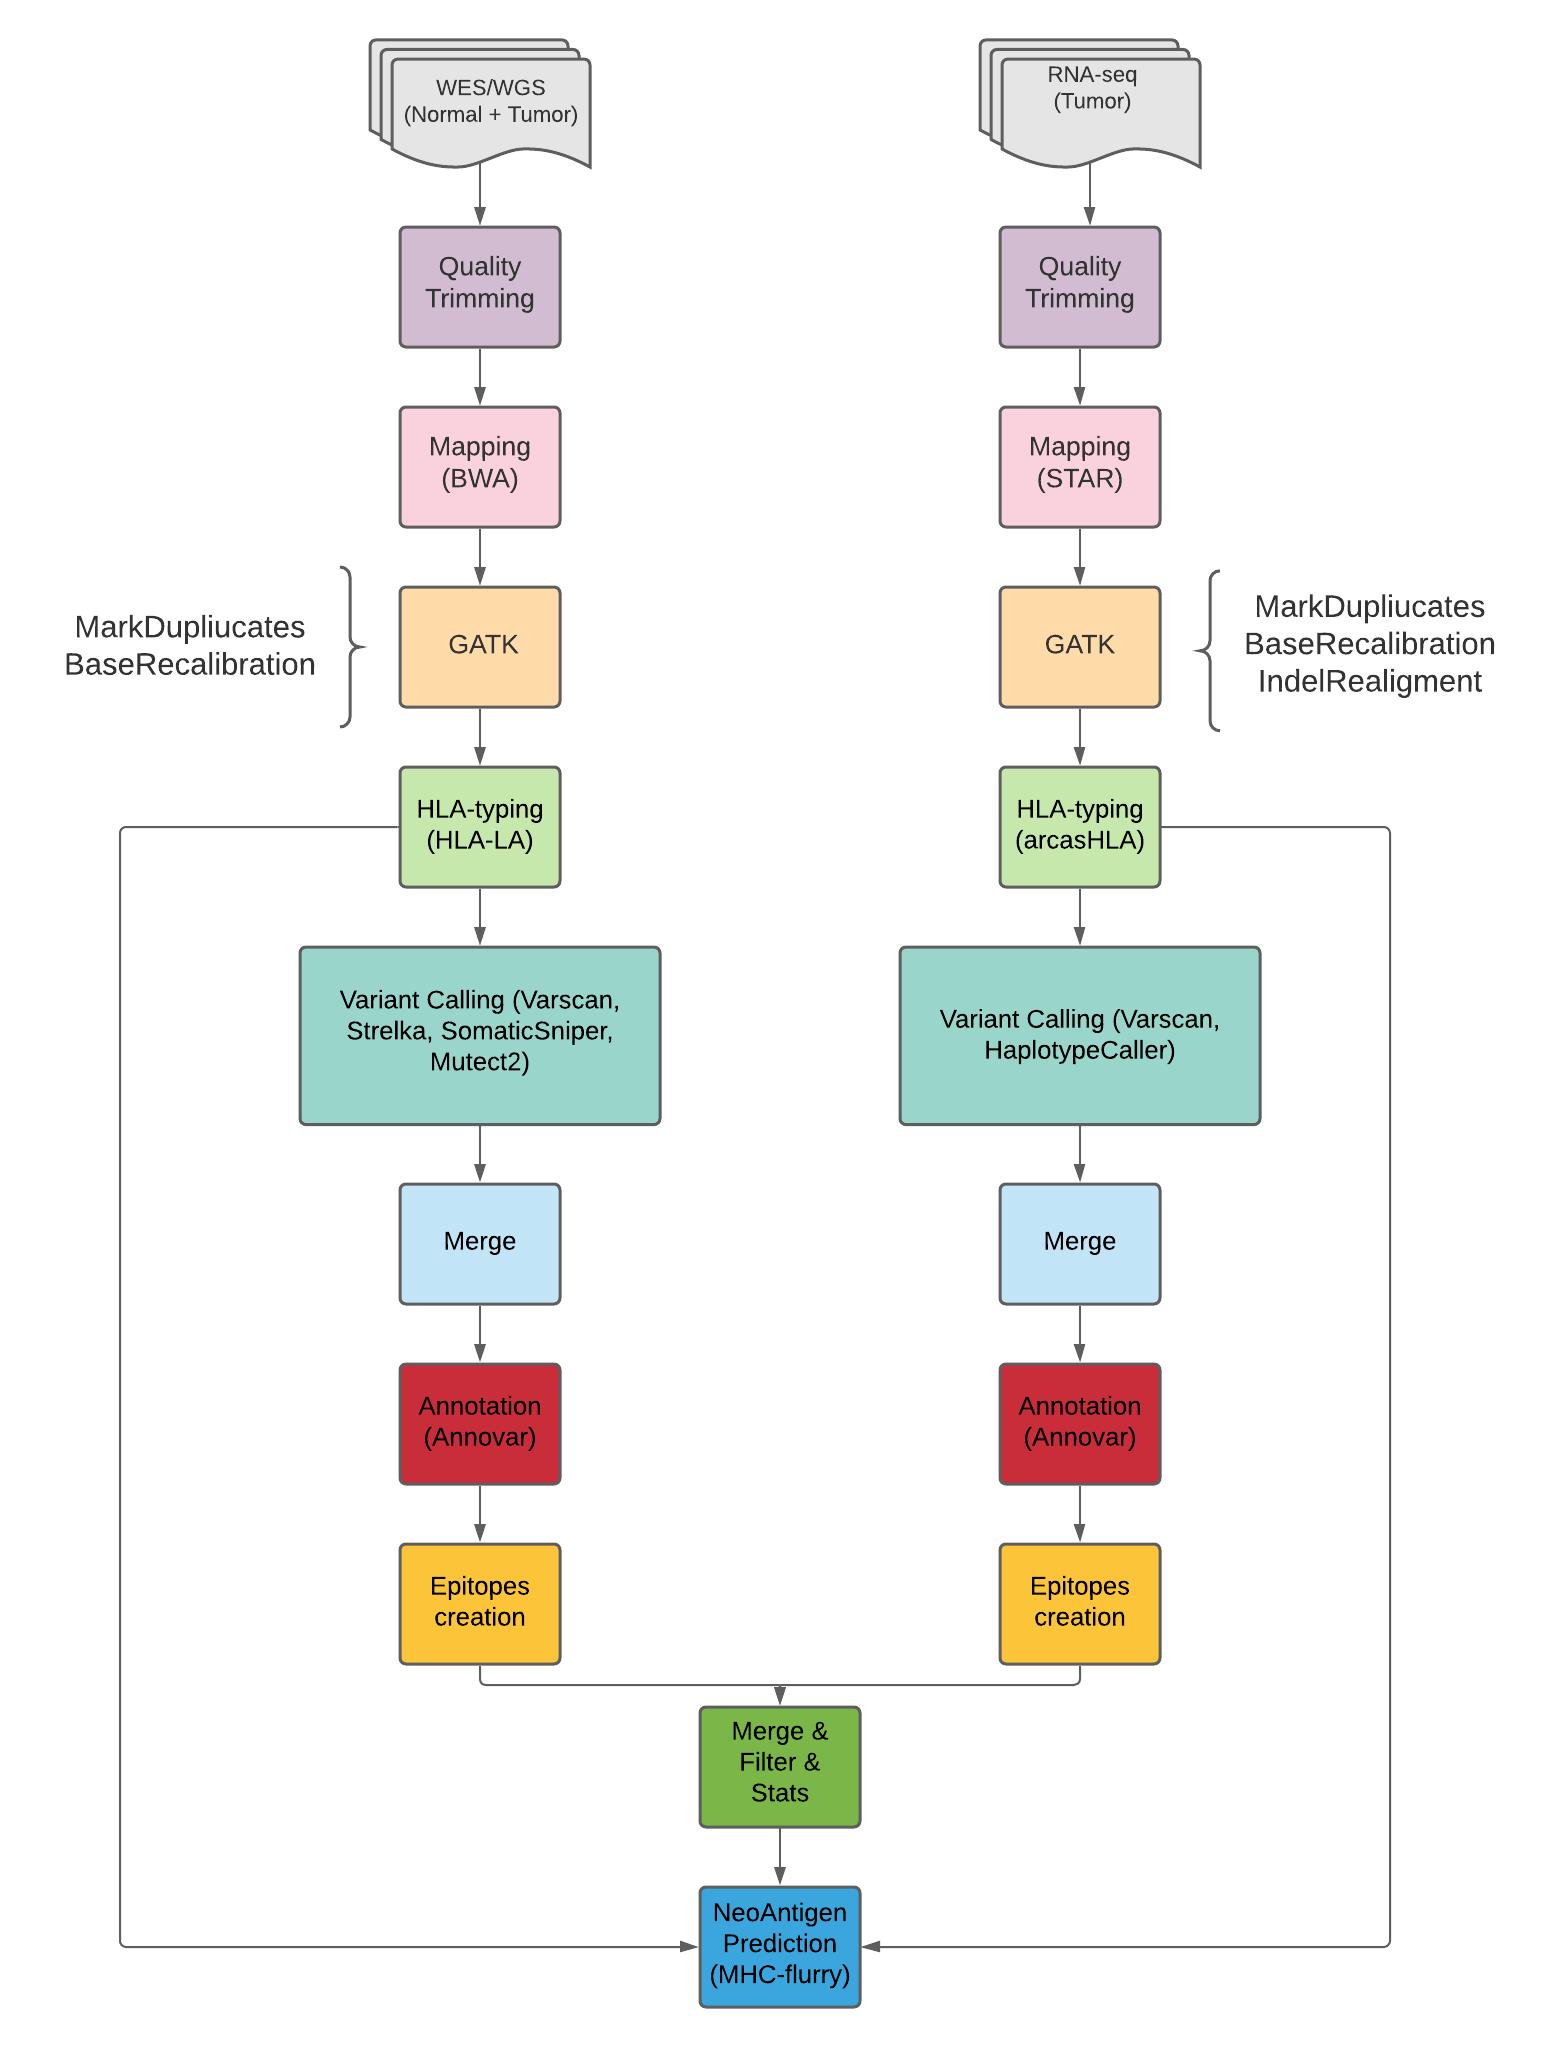
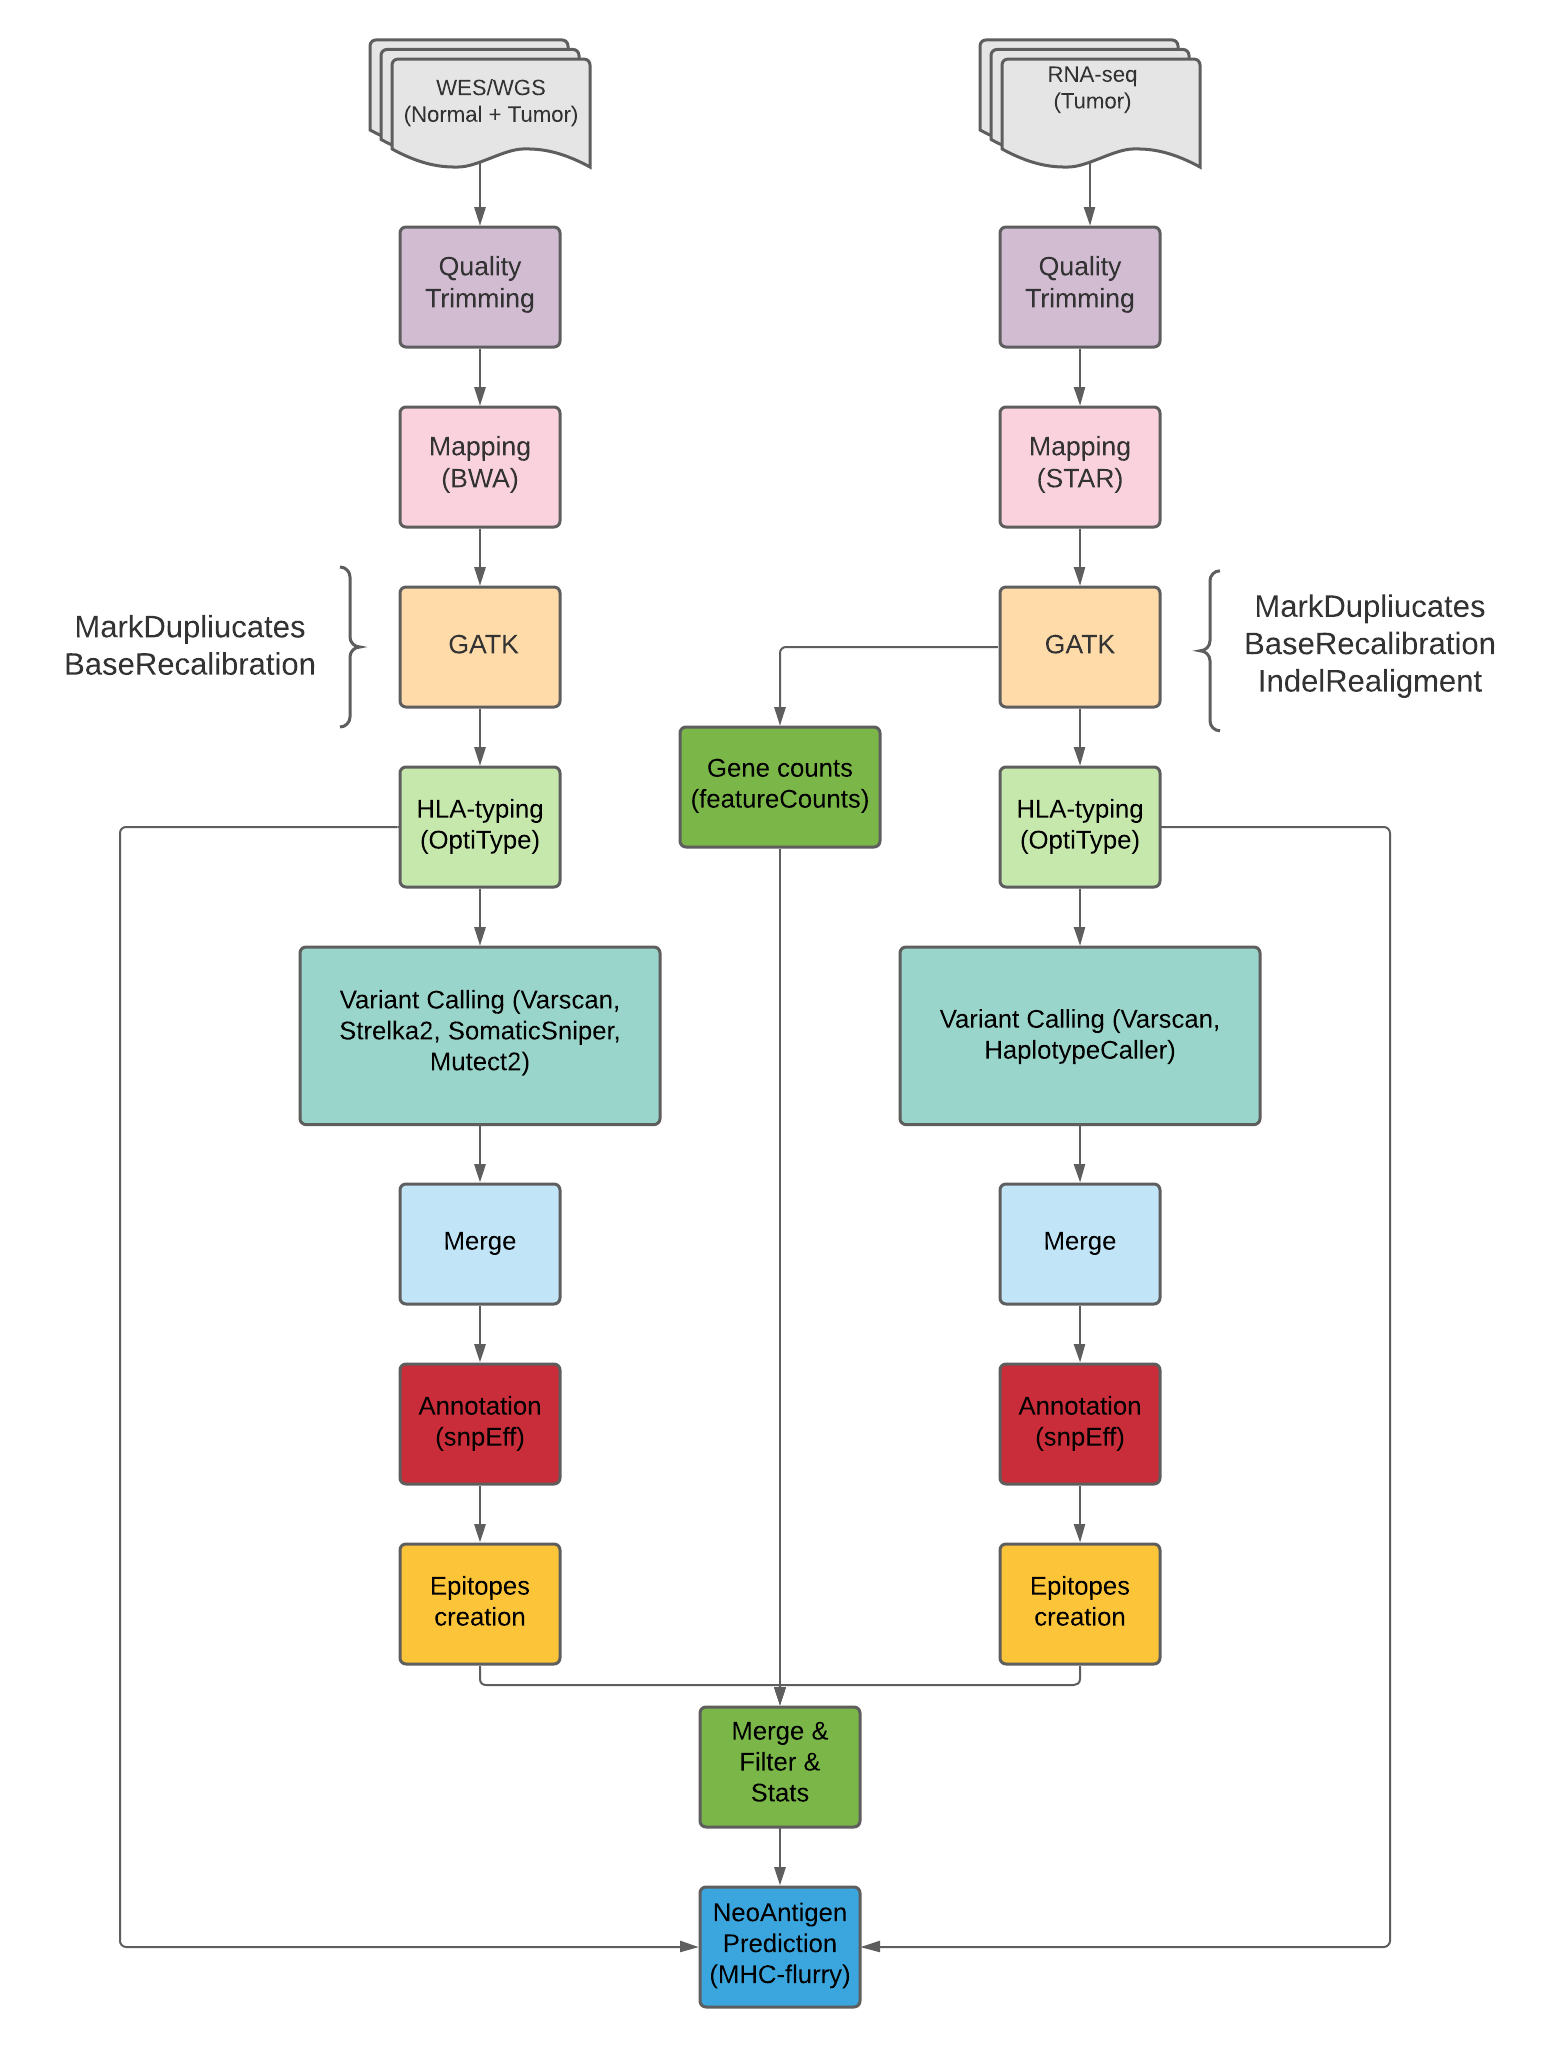
Fixed tabulation. Updated diagram. Bumped version

diff --git a/dna_pipeline.py b/dna_pipeline.py
@@ -240,42 +240,42 @@ def main(R1_NORMAL,
         vcf_stats(annotated_vcf, SAMPLEID)
 
         # Moving result files to output
-
-    if os.path.isfile('combined_calls.vcf'):
-        shutil.move('combined_calls.vcf', '../combined_calls.vcf')
-    if os.path.isfile('{}.relatedness2'.format(SAMPLEID)):
-        shutil.move('{}.relatedness2'.format(SAMPLEID), '../{}.relatedness2'.format(SAMPLEID))
-    if os.path.isfile('{}.TsTv.summary'.format(SAMPLEID)):
-        shutil.move('{}.TsTv.summary'.format(SAMPLEID), '../{}.TsTv.summary'.format(SAMPLEID))
-    if os.path.isfile('{}.vchk'.format(SAMPLEID)):
-        shutil.move('{}.vchk'.format(SAMPLEID), '../{}.vchk'.format(SAMPLEID))
-    if os.path.isfile('annotated.{}_multianno.vcf'.format(ANNOVAR_VERSION)):
-        shutil.move('annotated.{}_multianno.vcf'.format(ANNOVAR_VERSION),
-            '../annotated.{}_multianno.vcf'.format(ANNOVAR_VERSION))
-    if os.path.isfile('Tumor_{}_hla_genotype_result.tsv'.format(SAMPLEID)):
-        shutil.move('Tumor_{}_hla_genotype_result.tsv'.format(SAMPLEID),
-            '../Tumor_hla_genotype.tsv')
-    if os.path.isfile('Normal_{}_hla_genotype_result.tsv'.format(SAMPLEID)):
-        shutil.move('Normal_{}_hla_genotype_result.tsv'.format(SAMPLEID),
-            '../Normal_hla_genotype.tsv')
-    if os.path.isfile('sample1_final.bam'):
-        shutil.move('sample1_final.bam', '../tumor_final.bam')
-    if os.path.isfile('sample2_final.bam'):
-        shutil.move('sample2_final.bam', '../normal_final.bam')
-    if os.path.isdir('../{}_bamQCNormal'.format(SAMPLEID)):
-        shutil.rmtree(os.path.abspath('../{}_bamQCNormal'.format(SAMPLEID)))
-    if os.path.isdir('bamQC_Normal'):
-        shutil.move('bamQC_Normal', '../{}_bamQCNormal'.format(SAMPLEID))
-    if os.path.isdir('../{}_bamQCTumor'.format(SAMPLEID)):
-        shutil.rmtree(os.path.abspath('../{}_bamQCTumor'.format(SAMPLEID)))
-    if os.path.isdir('bamQC_Tumor'):
-        shutil.move('bamQC_Tumor', '../{}_bamQCTumor'.format(SAMPLEID))
-    for file in glob.glob('*_fastqc*'):
-        shutil.move(file, '../{}_{}'.format(SAMPLEID, file))
-    for file in glob.glob('*_trimming_report*'):
-        shutil.move(file, '../{}_{}'.format(SAMPLEID, file))
+        if os.path.isfile('combined_calls.vcf'):
+            shutil.move('combined_calls.vcf', '../combined_calls.vcf')
+        if os.path.isfile('{}.relatedness2'.format(SAMPLEID)):
+            shutil.move('{}.relatedness2'.format(SAMPLEID), '../{}.relatedness2'.format(SAMPLEID))
+        if os.path.isfile('{}.TsTv.summary'.format(SAMPLEID)):
+            shutil.move('{}.TsTv.summary'.format(SAMPLEID), '../{}.TsTv.summary'.format(SAMPLEID))
+        if os.path.isfile('{}.vchk'.format(SAMPLEID)):
+            shutil.move('{}.vchk'.format(SAMPLEID), '../{}.vchk'.format(SAMPLEID))
+        if os.path.isfile('annotated.{}_multianno.vcf'.format(ANNOVAR_VERSION)):
+            shutil.move('annotated.{}_multianno.vcf'.format(ANNOVAR_VERSION),
+                        '../annotated.{}_multianno.vcf'.format(ANNOVAR_VERSION))
+        if os.path.isfile('Tumor_{}_hla_genotype_result.tsv'.format(SAMPLEID)):
+            shutil.move('Tumor_{}_hla_genotype_result.tsv'.format(SAMPLEID),
+                        '../Tumor_hla_genotype.tsv')
+        if os.path.isfile('Normal_{}_hla_genotype_result.tsv'.format(SAMPLEID)):
+            shutil.move('Normal_{}_hla_genotype_result.tsv'.format(SAMPLEID),
+                        '../Normal_hla_genotype.tsv')
+        if os.path.isfile('sample1_final.bam'):
+            shutil.move('sample1_final.bam', '../tumor_final.bam')
+        if os.path.isfile('sample2_final.bam'):
+            shutil.move('sample2_final.bam', '../normal_final.bam')
+        if os.path.isdir('../{}_bamQCNormal'.format(SAMPLEID)):
+            shutil.rmtree(os.path.abspath('../{}_bamQCNormal'.format(SAMPLEID)))
+        if os.path.isdir('bamQC_Normal'):
+            shutil.move('bamQC_Normal', '../{}_bamQCNormal'.format(SAMPLEID))
+        if os.path.isdir('../{}_bamQCTumor'.format(SAMPLEID)):
+            shutil.rmtree(os.path.abspath('../{}_bamQCTumor'.format(SAMPLEID)))
+        if os.path.isdir('bamQC_Tumor'):
+            shutil.move('bamQC_Tumor', '../{}_bamQCTumor'.format(SAMPLEID))
+        for file in glob.glob('*_fastqc*'):
+            shutil.move(file, '../{}_{}'.format(SAMPLEID, file))
+        for file in glob.glob('*_trimming_report*'):
+            shutil.move(file, '../{}_{}'.format(SAMPLEID, file))
 
     print('COMPLETED!')
+
 
 if __name__ == '__main__':
     parser = ArgumentParser(description=__doc__, formatter_class=RawDescriptionHelpFormatter)

diff --git a/rna_pipeline.py b/rna_pipeline.py
@@ -185,10 +185,9 @@ def main(R1,
             shutil.move('combined_calls.vcf', '../combined_calls.vcf')
         if os.path.isfile('annotated.{}_multianno.vcf'.format(ANNOVAR_VERSION)):
             shutil.move('annotated.{}_multianno.vcf'.format(ANNOVAR_VERSION),
-                  '../annotated.{}_multianno.vcf'.format(ANNOVAR_VERSION))
+                        '../annotated.{}_multianno.vcf'.format(ANNOVAR_VERSION))
         if os.path.isfile('rna_{}_hla_genotype_result.tsv'.format(SAMPLEID)):
-            shutil.move('rna_{}_hla_genotype_result.tsv'.format(SAMPLEID),
-                  '../hla_genotype.tsv')
+            shutil.move('rna_{}_hla_genotype_result.tsv'.format(SAMPLEID), '../hla_genotype.tsv')
         if os.path.isfile('gene.counts'):
             shutil.move('gene.counts', '../gene.counts')
         if os.path.isfile('gene.counts.summary'):

diff --git a/setup.py b/setup.py
@@ -17,7 +17,7 @@ with io.open(os.path.join(here, 'README.md'), encoding='utf-8') as f:
 
 setup(
   name='hlapipeline',
-  version="0.4.0",
+  version="0.5.0",
   description=__doc__.split("\n", 1)[0],
   long_description=long_description,
   keywords='rna-seq analysis dna WES WGS HLA MHC neoantigen variant',

diff --git a/README.md b/README.md
@@ -17,14 +17,14 @@ filtered and annotated somatic variants.
 The variant callers are Mutect2, Strelka2, Varscan and SomaticSniper and both indels and SNPs are
 reported. Annotation is performed using Annovar. 
 The pipeline uses trim-galore to trim, bwa-men to align and follows GATK4 best practices. 
-The pipeline also performs HLA predictions with HLA-LA (tumor and normal).
+The pipeline also performs HLA predictions with OptiType (tumor and normal).
 QC is performed with FastQC and BamQC.
 
 **rna_pipeline.py** processes RNA data and generates a list of unified
 annotated somatic variants (weak filtered) and also a list of gene counts values. 
 The variant callers used are Varscan and HaplotypeCaller. Annotation is performed with Annovar.
 The pipeline uses trim-galore to trim, STAR to align and follows GATK4 best practices. 
-The pipeline also performs HLA predictions with arcasHLA.
+The pipeline also performs HLA predictions with OptiType.
 The gene counts values are computed with featureCounts.
 QC is performed with FastQC and BamQC.
 
@@ -54,36 +54,7 @@ To build these dictionaries you can use as reference the Jupyter Notebooks locat
 We strongly recommend to use Anaconda or Miniconda, otherwise you may need to create aliases
 for some tools as expected in the file hlapipeline/tools.py. 
 
-These following tools are required:
-
-* optitype
-* gatk4
-* gatk3
-* bwa 
-* samtools 
-* picard 
-* varscan 
-* trim-galore 
-* star 
-* somatic-sniper 
-* bedtools
-* tensorflow>=1.15.0
-* mhcflurry
-* kallisto
-* biopython
-* subread
-* strelka
-* annovar
-* qualimap
-* numpy
-* scipy
-* numpy
-* pandas
-* scikit-learn
-* pysam
-* vcfpy
-* vcftools
-* bcftools
+See environment.yml for a list of required packages. 
 
 ## Install
 See INSTALL.txt for installation instructions. 
